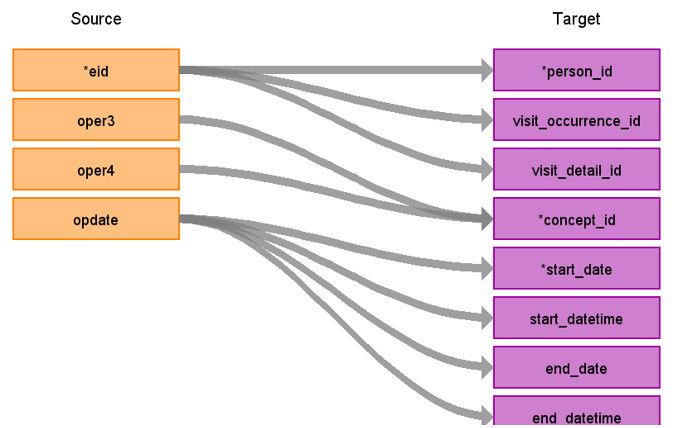
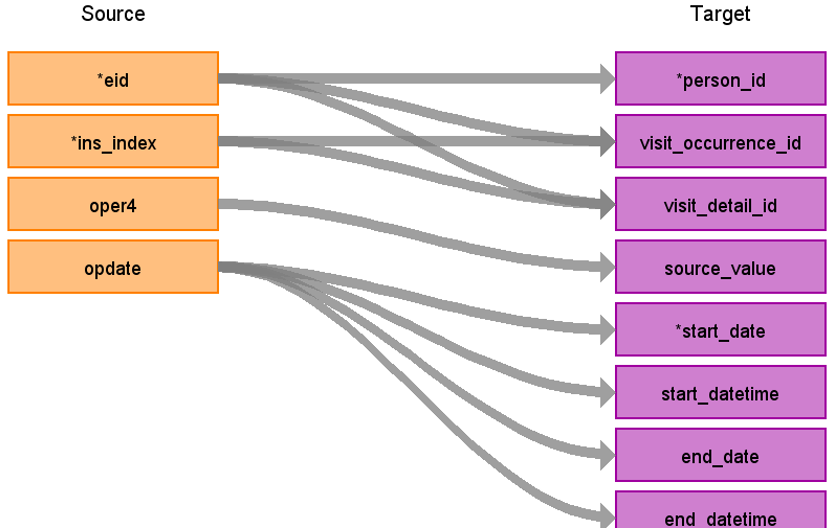
UKB_HESIN ETL Bug Fix

diff --git a/docs/UK_BIOBANK/UKB_HESIN/UKB_HESIN_STEM.md b/docs/UK_BIOBANK/UKB_HESIN/UKB_HESIN_STEM.md
@@ -20,9 +20,9 @@ description: "Stem table description"
 | id|||Removed for performance reasons|
 | domain_id | NULL | | | 
 | person_id | eid | | | 
-| visit_occurrence_id |eid,ins_index,arr_index | | Use eid+ins_index+arr_index to retrieve visit_occurrence_id |
-| visit_detail_id|eid,ins_index,arr_index ||Use eid+ins_index+arr_index to retrieve visit_detail_id |
-| source_value| diag_icd9,diag_icd10 |||
+| visit_occurrence_id |eid,ins_index | | Use eid+ins_index to retrieve visit_occurrence_id |
+| visit_detail_id|eid,ins_index ||Use eid+ins_index to retrieve visit_detail_id |
+| source_value| diag_icd9,diag_icd10 |CONCAT(LEFT(COALESCE(diag_icd9, diag_icd10), 3), '.', RIGHT(COALESCE(diag_icd9, diag_icd10), 1))||
 | source_concept_id | diag_icd9,diag_icd10 | concept_id of either diag_icd9 or diag_icd10 | |
 | type_concept_id |  | 32829 | |
 | start_date | epistart | | |
@@ -30,7 +30,7 @@ description: "Stem table description"
 | start_datetime | epistart |   | |
 | concept_id  | NULL |  |  |
 | end_datetime | epiend| | |
-| disease_status_source_value | level| | |
+| disease_status_source_value | | | |
 | stem_source_table | | "hesin_diag" | |
  
 ## Reading from hesin_oper
@@ -44,9 +44,9 @@ description: "Stem table description"
 | id|||Removed for performance reasons|
 | domain_id | NULL | | | 
 | person_id | eid | | | 
-| visit_occurrence_id |eid,ins_index,arr_index | | Use eid+ins_index+arr_index to retrieve visit_occurrence_id |
-| visit_detail_id|eid,ins_index,arr_index ||Use eid+ins_index+arr_index to retrieve visit_detail_id |
-| source_value| oper4|||
+| visit_occurrence_id |eid,ins_index | | Use eid+ins_index to retrieve visit_occurrence_id |
+| visit_detail_id|eid,ins_index ||Use eid+ins_index to retrieve visit_detail_id |
+| source_value| oper4 | CONCAT(LEFT(oper4, 3), '.', RIGHT(oper4, 1))||
 | source_concept_id | oper4 | concept_id of oper4 | |
 | type_concept_id |  | 32829 | |
 | modifier_source_value | level | | |
@@ -55,5 +55,5 @@ description: "Stem table description"
 | end_date | opdate | | |
 | end_datetime | opdate | | |
 | end_datetime | opdate | | |
-| concept_id  | oper4 | WHEN LENGTH(hesin_oper.oper4) = 4 THEN CONCAT(LEFT(hesin_oper.oper4, 3), '.', RIGHT(hesin_oper.oper4, 1))  |  |
+| concept_id  | NULL  |  |  |
 | stem_source_table | | "hesin_oper" | |

diff --git a/docs/UK_BIOBANK/UKB_HESIN/UKB_HESIN_Visit_Occurrence.md b/docs/UK_BIOBANK/UKB_HESIN/UKB_HESIN_Visit_Occurrence.md
@@ -30,8 +30,8 @@ description: "VISIT_OCCURRENCE mapping from HESIN table"
 | care_site_id | NULL| |  |
 | visit_source_value | ins_index |  | This will allow us to retrieve Visit_occurrence_id. |
 | visit_source_concept_id |NULL  |  |  |
-| admitted_from_concept_id | admimeth_uni | use admimeth_uni to retrieve the target_concept_id from source_to_standard_vocab_map by doing a INNER JOIN to source_to_standard_vocab_map as t1 on CONCAT('264-',hesin.admimeth_uni) = t1.source_code AND t1.target_domain_id = 'visit' AND t1.source_vocabulary_id = “HESIN_ADMIMETH_STCM”. |  |
-| admitted_from_source_value | admimeth_uni | use admimeth_uni to retrieve the source_code_description from source_to_standard_vocab_map by doing a INNER JOIN to source_to_standard_vocab_map as t1 on CONCAT('264-',hesin.admimeth_uni) = t1.source_code AND t1.target_domain_id = 'visit' AND t1.source_vocabulary_id = “HESIN_ADMIMETH_STCM”.|  |
+| admitted_from_concept_id | admimeth_uni | use admimeth_uni to retrieve the target_concept_id from source_to_standard_vocab_map by doing a INNER JOIN to source_to_standard_vocab_map as t1 on CONCAT('264-',hesin.admimeth_uni) = t1.source_code AND t1.target_domain_id = 'visit' AND t1.source_vocabulary_id = “UKB_ADMIMETH_STCM”. |  |
+| admitted_from_source_value | admimeth_uni | use admimeth_uni to retrieve the source_code_description from source_to_standard_vocab_map by doing a INNER JOIN to source_to_standard_vocab_map as t1 on CONCAT('264-',hesin.admimeth_uni) = t1.source_code AND t1.target_domain_id = 'visit' AND t1.source_vocabulary_id = “UKB_ADMIMETH_STCM”.|  |
 | discharged_to_concept_id | NULL | |  |
 | discharged_to_source_value | NULL | |  |
 | preceding_visit_occurrence_id |  | Using eid+ins_index, look up the episode that occurs prior to this and put the visit_occurrence_id here. |  |

diff --git a/docs/UK_BIOBANK/UKB_HESIN/UKB_HESIN_Visit_Detail.md b/docs/UK_BIOBANK/UKB_HESIN/UKB_HESIN_Visit_Detail.md
@@ -30,8 +30,8 @@ description: "visit_detail mapping from hesin_critical & hesin_psych tables"
 | care_site_id| NULL | | |
 | visit_detail_source_value| ins_index | | |
 | visit_detail_source_concept_id| NULL | | |
-| admitted_from_concept_id| ccadmisorc | use ccadmisorc to retrieve the target_concept_id from source_to_standard_vocab_map by doing a LEFT JOIN to source_to_standard_vocab_map as t2 on CONCAT('7004-',hesin_critical.ccadmisorc) = t2.source_code AND t2.source_vocabulary_id = “HESIN_CCADMISORC_STCM”.| |
-| admitted_from_source_value| ccadmisorc | use ccadmisorc to retrieve the source_code_description from source_to_standard_vocab_map by doing a LEFT JOIN to source_to_standard_vocab_map as t2 on CONCAT('7004-',hesin_critical.ccadmisorc) = t2.source_code AND t2.source_vocabulary_id = “HESIN_CCADMISORC_STCM”.| |
+| admitted_from_concept_id| ccadmisorc | use ccadmisorc to retrieve the target_concept_id from source_to_standard_vocab_map by doing a LEFT JOIN to source_to_standard_vocab_map as t2 on CONCAT('7004-',hesin_critical.ccadmisorc) = t2.source_code AND t2.source_vocabulary_id = “UKB_CCADMISORC_STCM”.| |
+| admitted_from_source_value| ccadmisorc | use ccadmisorc to retrieve the source_code_description from source_to_standard_vocab_map by doing a LEFT JOIN to source_to_standard_vocab_map as t2 on CONCAT('7004-',hesin_critical.ccadmisorc) = t2.source_code AND t2.source_vocabulary_id = “UKB_CCADMISORC_STCM”.| |
 | discharged_to_source_value| NULL | | |
 | discharged_to_concept_id| NULL | | |
 | preceding_visit_detail_id| NULL | | |
